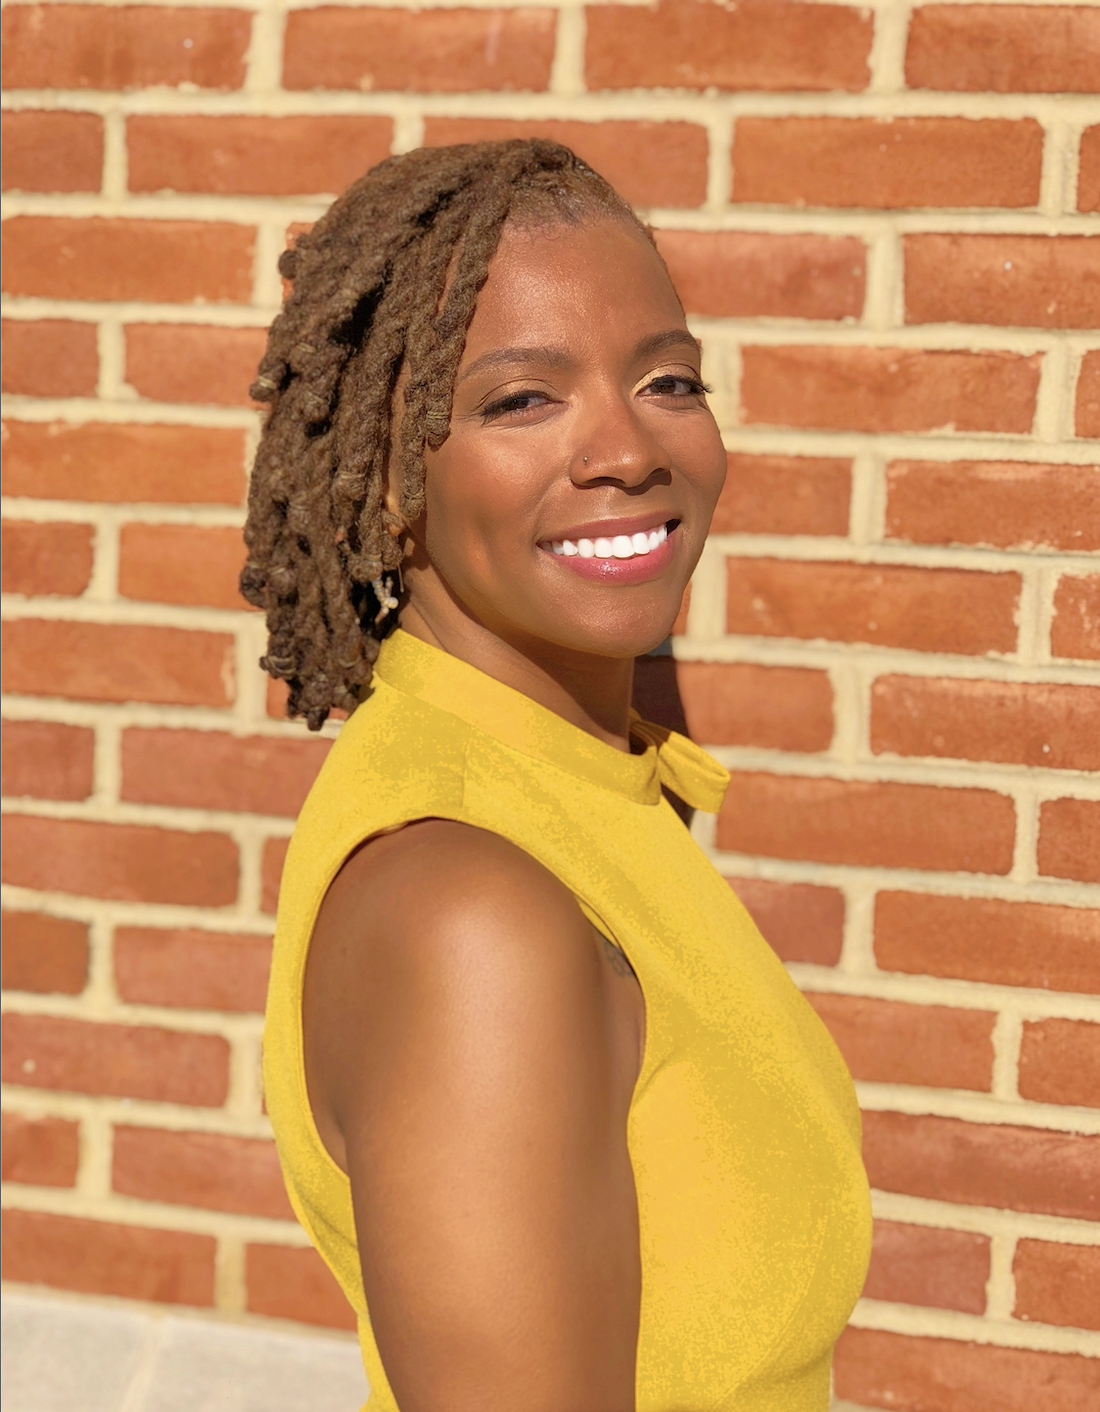
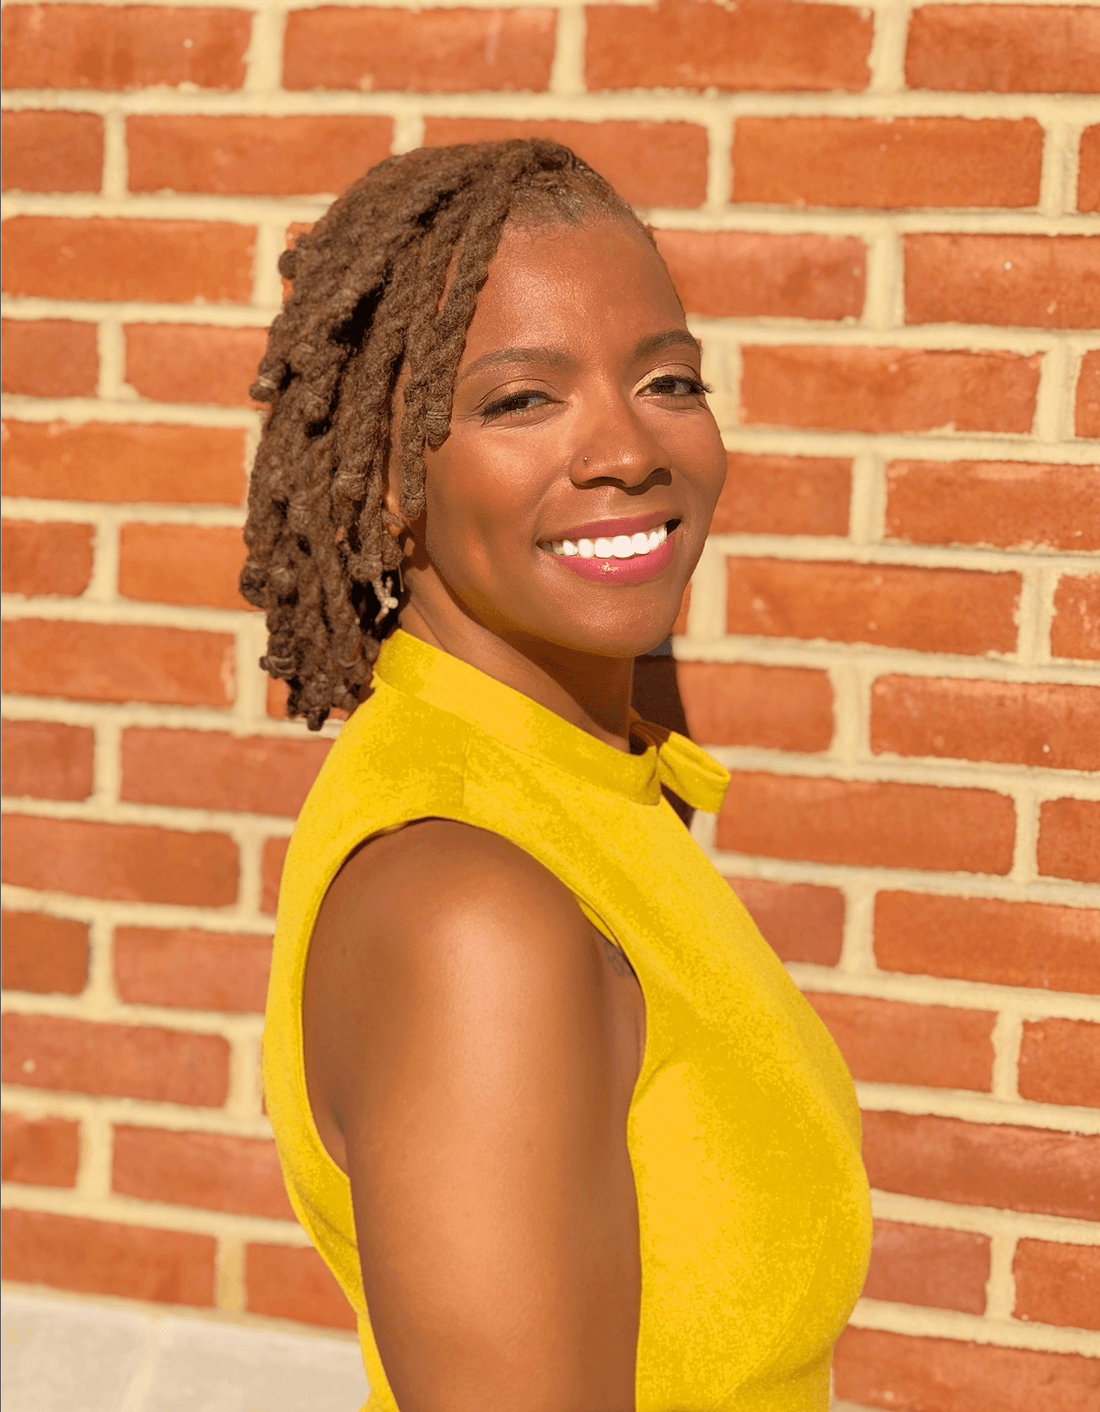
update photo to load faster and fixed rep.it error

Changed region(s): [[0.2164, 0.4363, 0.8036, 1.0], [0.5255, 0.3739, 0.5564, 0.4051]]

diff --git a/src/template.html b/src/template.html
@@ -4,7 +4,7 @@
     <meta charset="utf-8" />
     <meta http-equiv="X-UA-Compatible" content="IE=edge" />
     <meta name="viewport" content="width=device-width, initial-scale=1" />
-    <link rel="shortcut icon" type="image/ico" href="assets/favicon.ico" />
+    <link rel="shortcut icon" type="image/ico" href="assets/favicon.png" />
 
     <!-- Put here your site title -->
     <title>Trenisha Goslee | Web Developer </title>
@@ -251,8 +251,11 @@
                 <a href="#!" target="_blank">
                   <div data-tilt class="thumbnail rounded">
                     <iframe height="400px" width="100%"
-                            src="https://repl.it/@TrenishaGoslee/FinalProject1?lite=true" scrolling="no"
-                            frameborder="no" allowtransparency="true" allowfullscreen="true"
+                            src="https://repl.it/@TrenishaGoslee/FinalProject1?lite=true"
+                            scrolling="no"
+                            frameborder="no"
+                            allowtransparency="true"
+                            allowfullscreen="true"
                             sandbox="allow-forms allow-pointer-lock allow-popups allow-same-origin allow-scripts allow-modals"></iframe>
                   </div>
                 </a>
@@ -310,7 +313,6 @@
           <p class="contact-wrapper__text">
           </p>
           <a
-            target="_blank"
             class="cta-btn cta-btn--resume"
             href="mailto:tgoslee@awakeningstem.com"
             >Let's Do This!</a
@@ -335,6 +337,9 @@
           </a>
           <a href="https://github.com/tgoslee" target="_blank">
             <i class="fa fa-github fa-inverse"></i>
+          </a>
+          <a href="mailto:tgoslee@awakeningstem.com">
+          <i class="fa fa-envelope-open"></i>
           </a>
         </div>
 

diff --git a/src/index.js b/src/index.js
@@ -1,4 +1,4 @@
-import initTilt from './js/tilt';
+
 import initSr from './js/sr';
 
 import './style/main.scss';
@@ -19,4 +19,4 @@ $('a[href^="#"]').on('click', function(event) {
 });
 
 initSr();
-initTilt();
+
